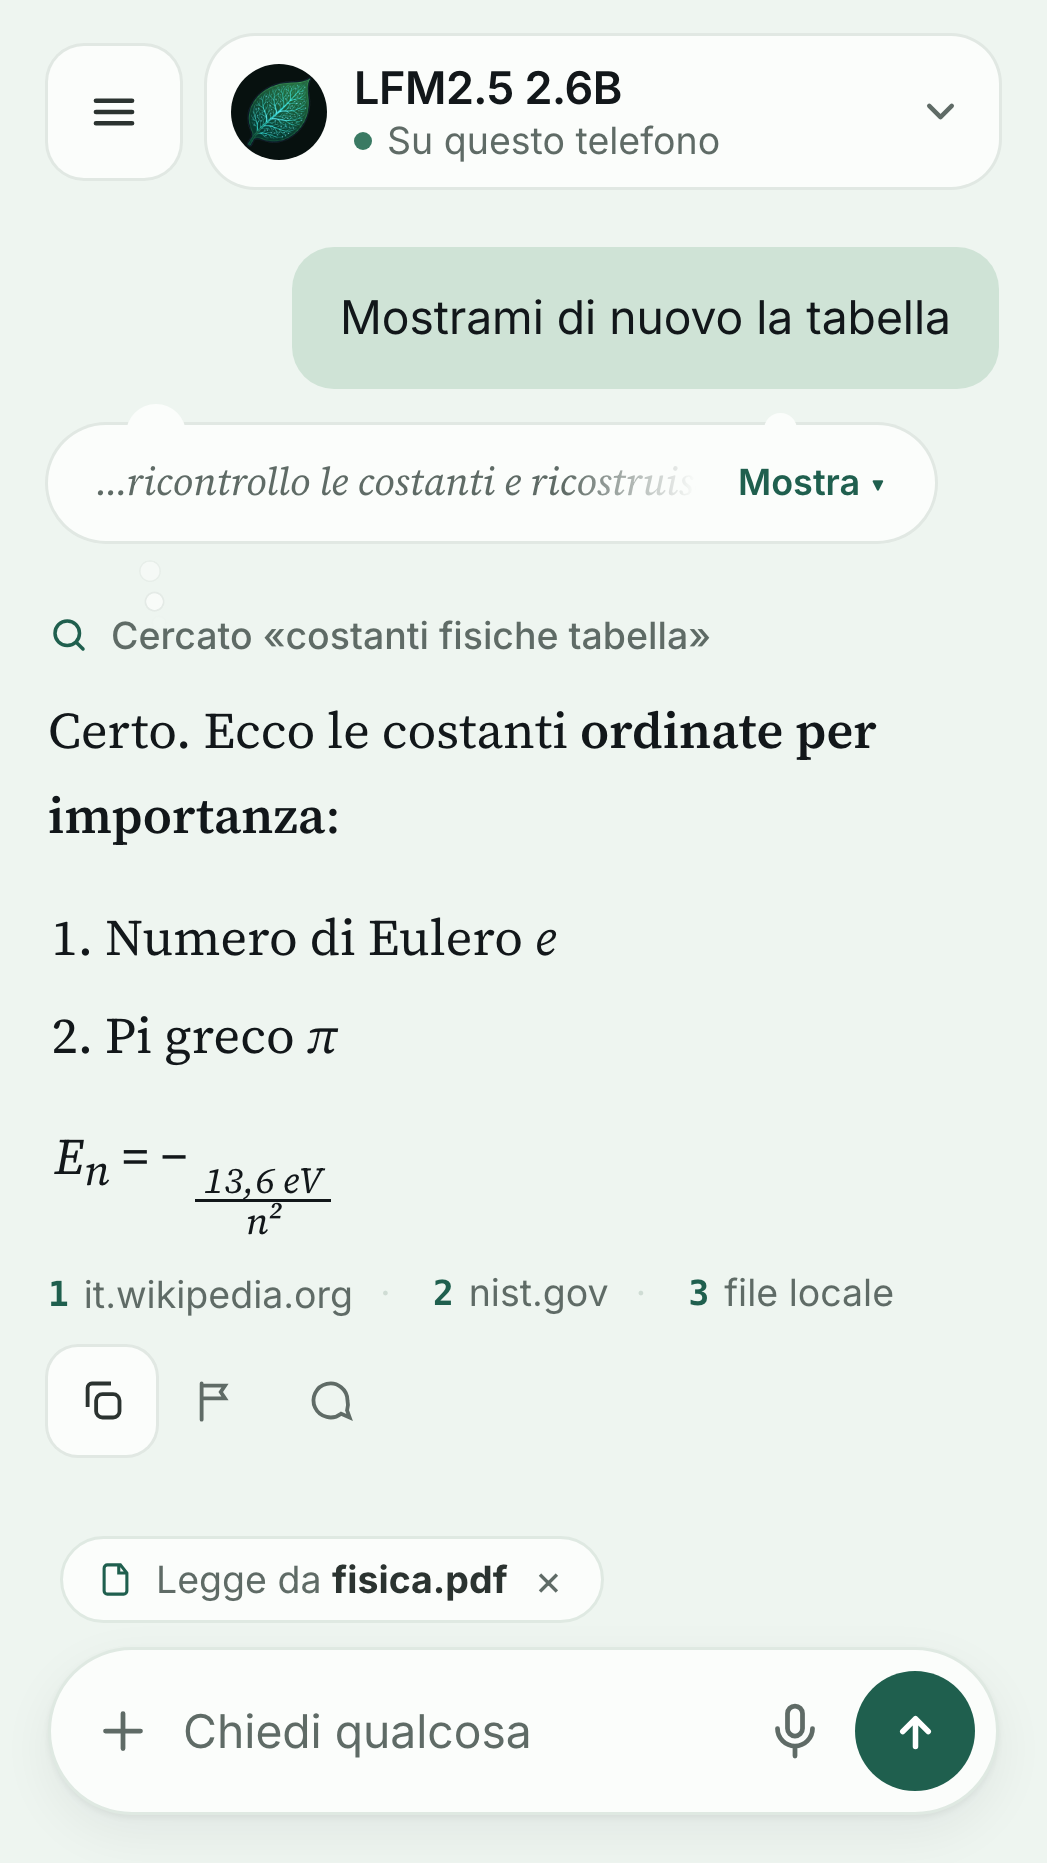
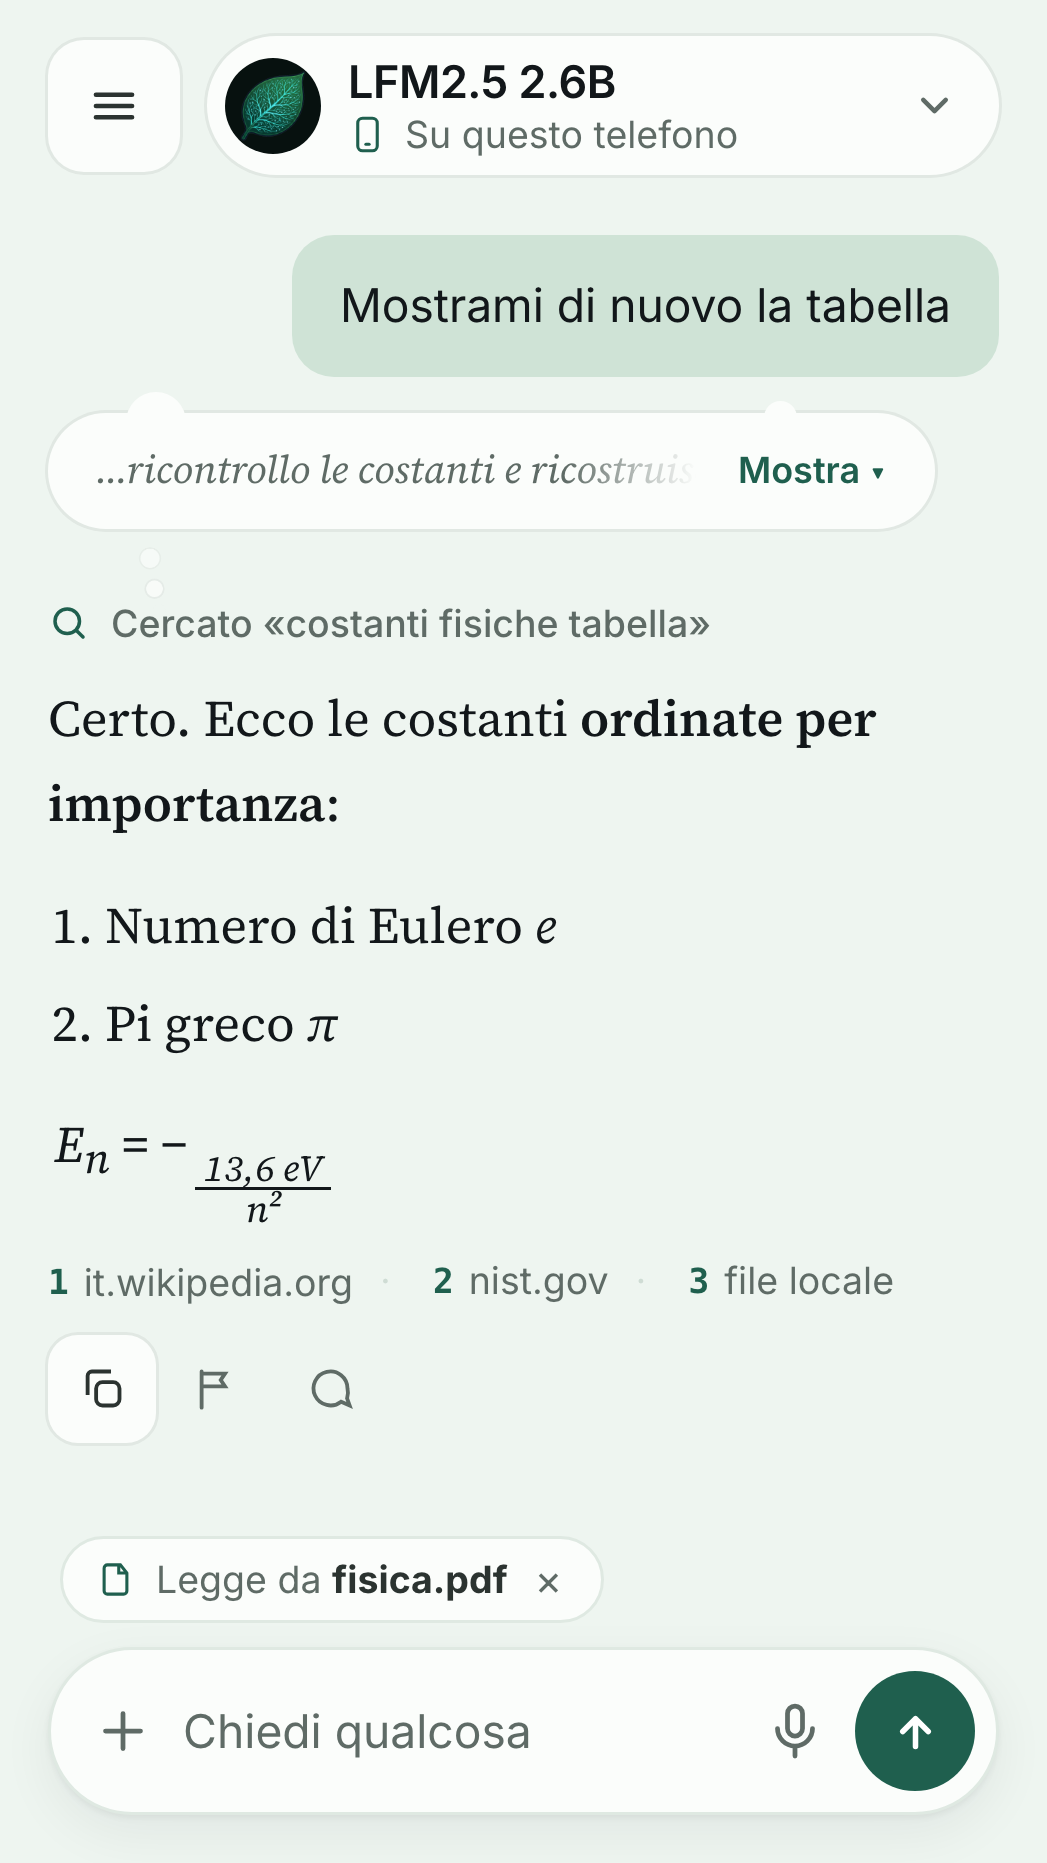
design: the model pill is a capsule, and where it runs gets a device glyph
Two owner notes. The pill that carries the AI gets the composer's treatment —
one shape, radius 999 — so the two controls above and below the transcript agree
instead of being a rectangle and a capsule. And the second line stops carrying a
colour dot: it carries a 13 px accent glyph, a phone while the answer comes from
this phone and a monitor while it comes from the server brain, because a dot says
'something' and a glyph says where. The status (ready, loading, refused) stays in
the pill's own sheet.

pair-pill-2ways.png is the strip; v2-switch.png shows the same pill against the
'Dove rispondere' sheet, whose own rows already used the two glyphs.

repo kalsa-ux, branch ux-2026-09-21, parent d116906

diff --git a/docs/design/kalsa-mock-v2.html b/docs/design/kalsa-mock-v2.html
@@ -731,10 +731,12 @@ body{background:var(--page);font-size:15px}
 /* strip: menu + pill, nient'altro. Il "+" e' ridondante: la Nuova chat e' la CTA del menu */
 .head{padding:12px 16px 14px;background:var(--page)}
 .head .iconbtn:last-of-type{display:none}
-.pick{border:0;box-shadow:var(--e1);border-radius:var(--r-card);padding:8px 12px 8px 8px}
+.pick{border:0;box-shadow:var(--e1);border-radius:999px;padding:6px 14px 6px 6px}
 .pick .mark{width:32px;height:32px}
 .pick b{font-size:15px;font-weight:600}
-.pick small{font-size:12.5px}
+.pick small{font-size:12.5px;gap:6px}
+.pick small i{display:none}
+.pick .dev{width:13px;height:13px;color:var(--accent);flex:none}
 .iconbtn{width:44px;height:44px;border-radius:var(--r-btn);border:0;box-shadow:var(--e1)}
 /* transcript: meno decorazione, piu' gerarchia */
 .page{padding:6px 16px 0}
@@ -813,5 +815,17 @@ body{background:var(--page);font-size:15px}
 .preview{font-size:16px}
 .rm{background:var(--surface)}
 </style>
+
+<script>
+/* v2: the model pill says WHERE it runs with a device glyph instead of a dot */
+(function(){
+  var w = document.getElementById("mwhere"); if(!w) return;
+  var t = (w.textContent || "").trim(); if(!t) return;
+  var PH = '<svg class="dev" viewBox="0 0 24 24" fill="none" stroke="currentColor" stroke-width="1.9" stroke-linecap="round"><rect x="6" y="2" width="12" height="20" rx="3"/><path d="M11 18h2"/></svg>';
+  var PC = '<svg class="dev" viewBox="0 0 24 24" fill="none" stroke="currentColor" stroke-width="1.9" stroke-linecap="round"><rect x="2" y="4" width="20" height="13" rx="2"/><path d="M8 21h8"/></svg>';
+  var remote = /pc|brain|mac|studio|server/i.test(t);
+  w.innerHTML = (remote ? PC : PH) + '<span>' + t + '</span>';
+})();
+</script>
 </body>
 </html>

diff --git a/docs/DESIGN-V2.md b/docs/DESIGN-V2.md
@@ -93,6 +93,10 @@ lucide, **1.75 stroke**, 20 px inside rows and controls, 18 px inside chips, 24 
 own leading action. Every interactive node carries a `testID` and an accessible name, and a **48 dp
 touch box** (the painted control may be smaller: 44 px send, 36 px ghost action, 32 px chip).
 
+One pictogram is load-bearing and must not be swapped for a coloured dot: **the device glyph beside the
+model's name** — `smartphone` while the answer comes from this phone, `monitor` while it comes from the
+server brain — 13 px in `accent`, on the pill's second line (the owner asked for exactly this).
+
 ### 1.6 What is not decoration
 
 A rule the v2 pass was written against, because the first version of it read as a toy:
@@ -127,6 +131,7 @@ Each entry is the anatomy a coder implements; states are named because a missing
 | **Button, danger** | as secondary with `danger` label and `danger` hairline | pressed, disabled |
 | **Icon button** | 44 px painted in a 48 dp box, radius 14, `surface` + `e1`; ghost variant: no container, `ink3` | default, pressed (`tint`), selected (`tint` + `accent`), disabled |
 | **Chip** | pill, 32 dp, 1 px `line`, `surface`, 12.5 label, optional 18 px leading icon, optional trailing `×` | default, selected (`brand` fill, white label), disabled |
+| **Model pill** | **capsule**, 48 dp, `surface`, 1 px `line`, `e1`: a 32 px mark (the logo), the model's short name in `bodyStrong`, a second line carrying a 13 px `accent` **device glyph** and where it runs, and a 20 px chevron. Radius 999 so it agrees with the composer | local (`smartphone`, "Su questo telefono"), server brain (`monitor`, "Su Kalsa Brain"), loading (the glyph becomes a 14 px spinner), refused (the pill goes `tint` + `ink3`) |
 | **Field (forms)** | 52 dp, radius 14, `surface`, 1 px `line`, 15 px `ink`, placeholder `ink3`, optional 20 px leading icon, optional trailing 24 dp action | empty, filled, focused (`accent` hairline + `accent` caret), error (`danger` hairline) |
 | **Composer field** | **one capsule**: 56 dp, radius 999, `surface`, 1 px `line`, `e2`; inside it, left to right: a 40 px ghost attach button, the text (15.5 px sans), a 40 px ghost mic, and a **40 px circular filled send**. A circle inside a capsule, never a square inside a rectangle | empty (placeholder `ink3`), focused, held (the circle goes `tint` + `ink3`, and the hold line says why), stop (the same circle carries a square glyph) |
 | **Search field** | as Field with a leading magnifier and a trailing clear `×` that appears only when non-empty | — |
@@ -157,12 +162,13 @@ Each entry is the anatomy a coder implements; states are named because a missing
 
 ### 3.1 Conversation
 
-**The strip** — 56 dp: the drawer's icon button (ghost, 44 px), the **model pill** (44 dp, `surface`,
-radius 14, `e1`: a 32 px mark, the model's short name in `bodyStrong`, and a second line with a 6 px
-`accent` dot plus where it runs — "Su questo telefono" / "Sul PC"), and a chevron. **Nothing else
-lives in the strip**: no `+` (the new chat is the menu's primary action, and a second door to it was
-redundant), no web switch (it moves to Settings › Privacy), and the model's progress, error and
-battery lines live inside the pill's own sheet, opened by tapping it.
+**The strip** — 56 dp: the drawer's icon button (ghost, 44 px), the **model pill** — **a capsule**, 48 dp,
+radius 999, `surface`, 1 px `line`, `e1`, holding a 32 px mark, the model's short name in `bodyStrong`,
+a second line with a **13 px `accent` device glyph** (`smartphone` / `monitor`) and where it runs, and a
+chevron — and nothing else. **Nothing else lives in the strip**: no `+` (the new chat is the menu's
+primary action, and a second door to it was redundant), no web switch (it moves to Settings › Privacy),
+and the model's progress, error and battery lines live inside the pill's own sheet, opened by tapping
+it. The dot that used to sit on the second line is gone: a colour says "something", a glyph says *where*.
 
 **The transcript** — the answer has no container. States, each with its line:
 empty (the photograph alone), waiting for the first token (the strip of three dots and the composer's
